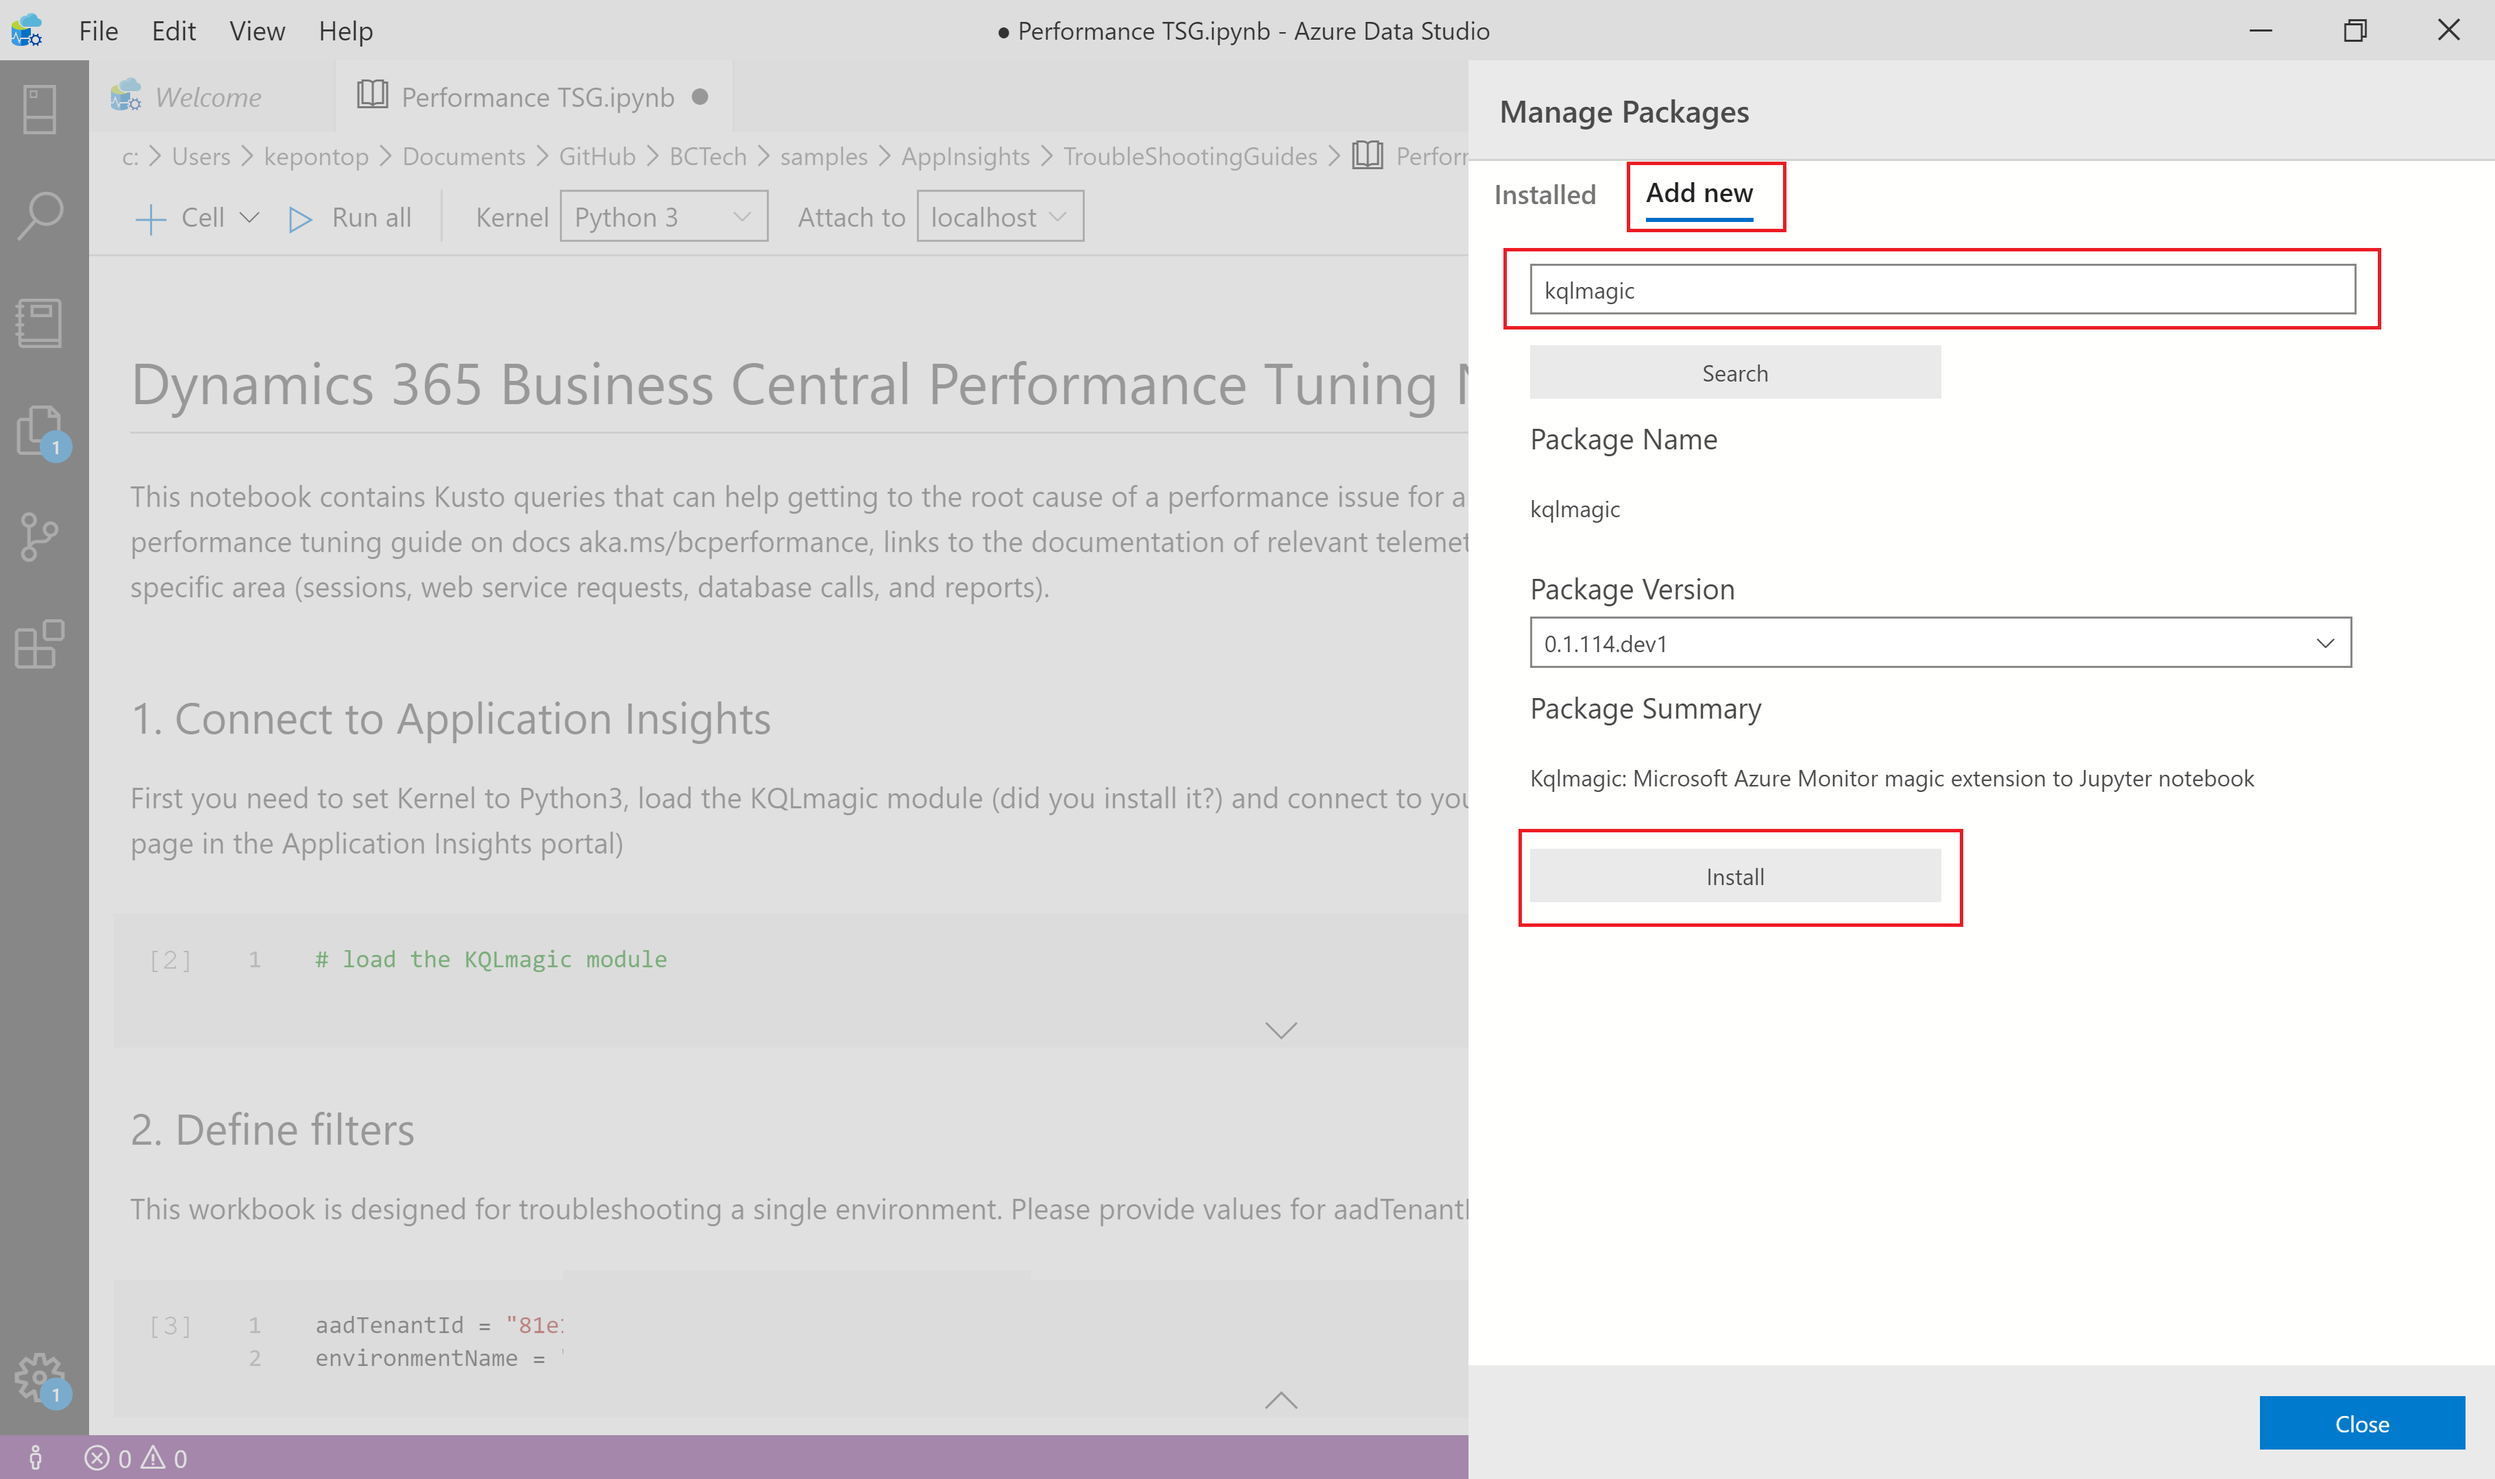
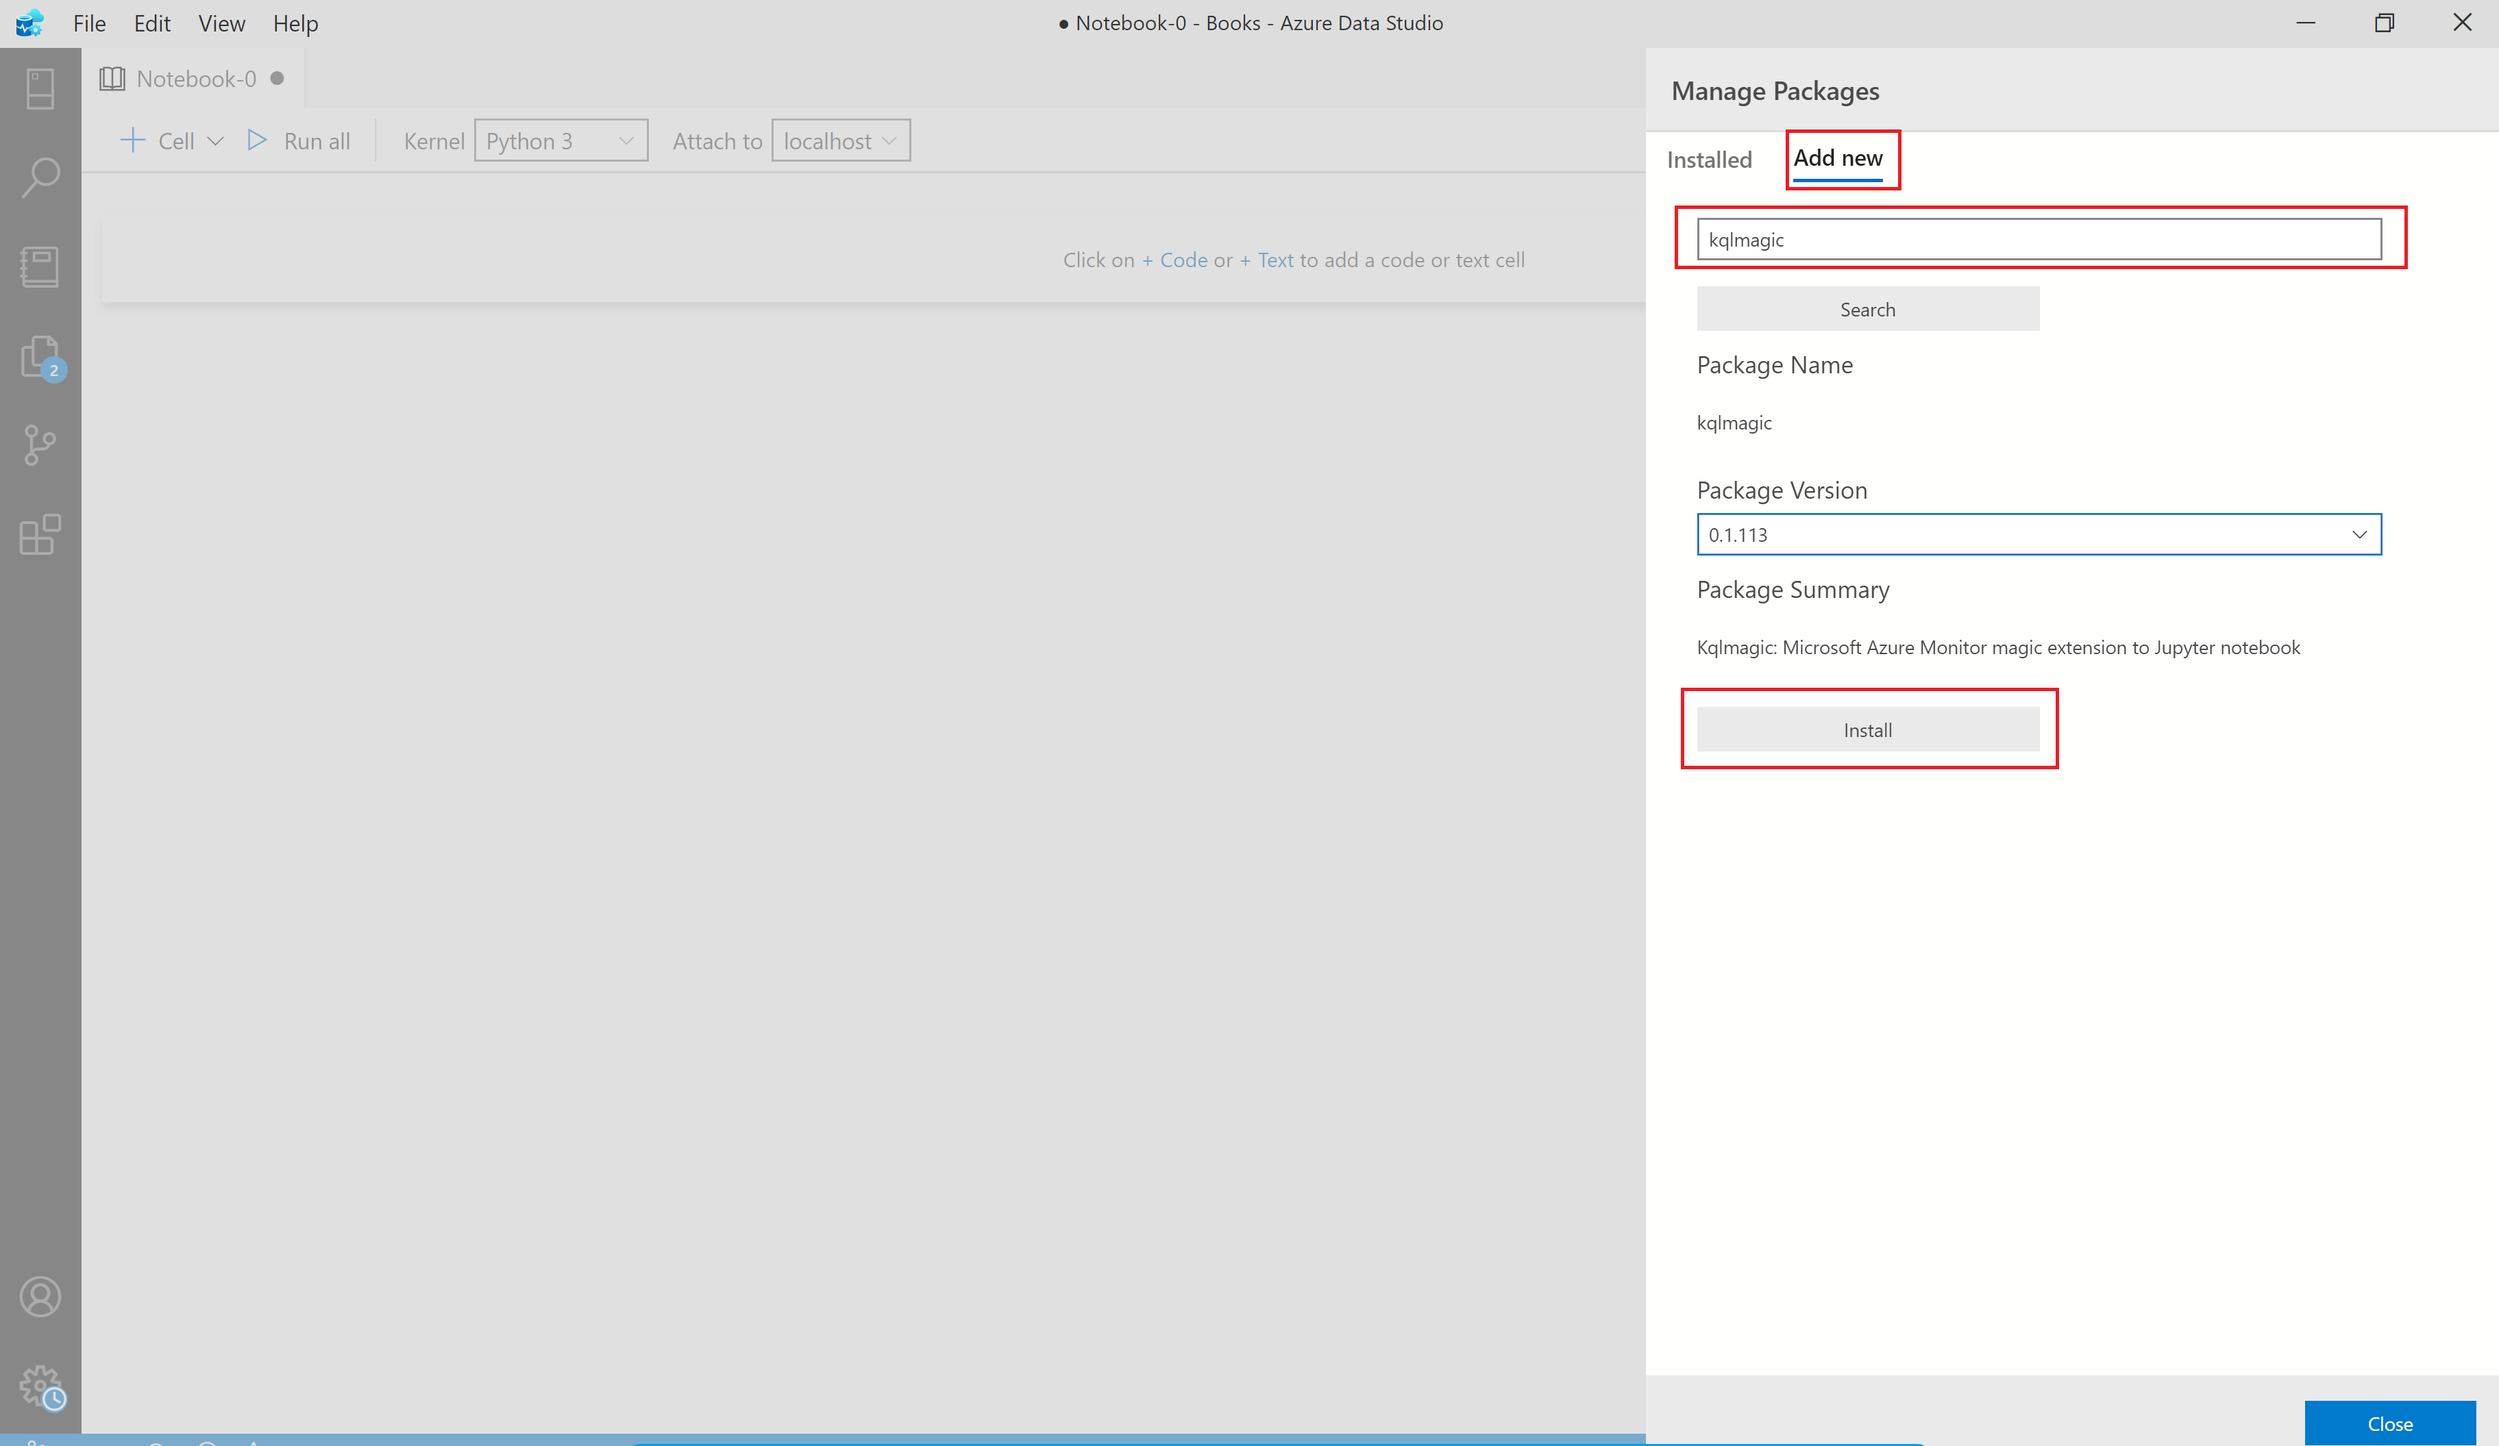
kql installation

diff --git a/samples/AppInsights/TroubleShootingGuides/README.md b/samples/AppInsights/TroubleShootingGuides/README.md
@@ -42,7 +42,7 @@ To install and set up Kqlmagic, open a python notebook. Click the "Manage Packag
 
 ![Manage Python packages](../images/install-kqlmagic-1.png)
 
-Under the "Add new" tab, type "kqlmagic" and click Install:
+Under the "Add new" tab, type "kqlmagic" and click Install (we generally recommend people to install non “dev” version of Kqlmagic):
 
 ![Install Kqlmagic](../images/install-kqlmagic-2.png)
 
